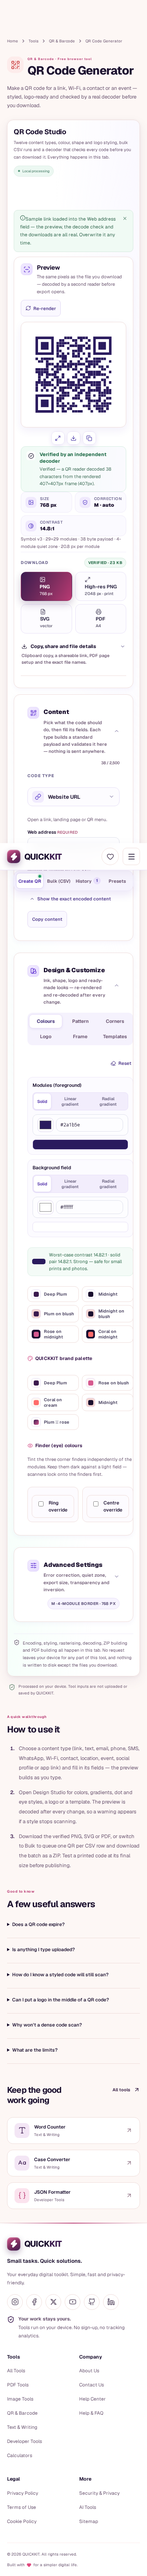
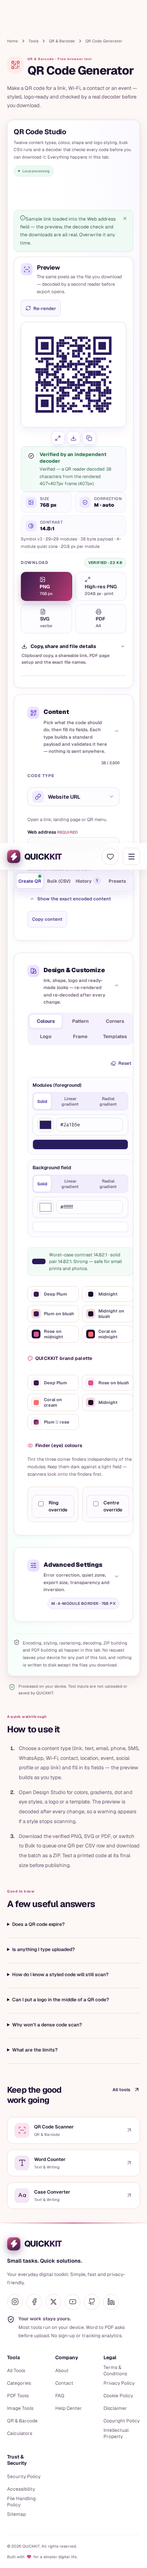
Re-verify after merging main for PR #24: unit 1555/85, QR E2E 66/66, build clean
Merged origin/main (QR Scanner + OCR + calculators); the only conflict was the
tool table in TOOL_DEVELOPMENT_STATUS.md, resolved in favour of main's superset
(includes the qr-code-scanner row). Re-ran the QR Chromium E2E on the merged
production build: 66 passed / 0 failed / 0 flaky; screenshots and
e2e-results.json regenerated. Combined unit suite 1555/85; tsc + build clean.

diff --git a/docs/qr-studio-v3/QA_REPORT.md b/docs/qr-studio-v3/QA_REPORT.md
@@ -304,21 +304,26 @@ six folds (Colours / Pattern / Corners / Logo / **Frame** / Templates).
 
 ## 11. Test & build evidence
 
-| Gate                                  | Result                                                                                                                                                      |
-| ------------------------------------- | ----------------------------------------------------------------------------------------------------------------------------------------------------------- |
-| TypeScript (`tsc --noEmit`)           | clean                                                                                                                                                       |
-| ESLint (changed files + `tests/e2e`)  | clean                                                                                                                                                       |
-| Prettier (changed files)              | formatted                                                                                                                                                   |
-| Unit suite                            | **754 passing / 42 files** (was 682/39 at Stage 1, 594/37 baseline; +21 D, +15 F, +8 G, +10 H, +12 E, +6 I)                                                 |
-| **Playwright Chromium E2E (Phase J)** | **66 passing / 0 failed / 0 flaky** against a production build                                                                                              |
-| Responsive screenshots                | 6 genuine captures, 5 widths, no overflow/clipping                                                                                                          |
-| Console / network / hydration         | 0 errors / 0 genuine failures / 0 hydration errors                                                                                                          |
-| Routes                                | 11/11 HTTP 200                                                                                                                                              |
-| Independent decode                    | every content type + all 55 templates + 11 category samples + 6 framed/eye/logo designs decoded by jsQR to the exact payload; DPI-stamped PNGs still decode |
-| Print layouts                         | every layout reloads as a valid PDF at its promised mm size; A4 sheet grid clamped to fit                                                                   |
-| Production build (`npm run build`)    | clean; `/tools/qr-generator` prerendered static                                                                                                             |
-| Dev preview                           | running on port 3000 (live preview)                                                                                                                         |
-| Rendered artifacts                    | 44 real PNGs + `report.json` in `docs/qr-studio-v3/evidence/`                                                                                               |
+| Gate                                  | Result                                                                                                      |
+| ------------------------------------- | ----------------------------------------------------------------------------------------------------------- |
+| TypeScript (`tsc --noEmit`)           | clean                                                                                                       |
+| ESLint (changed files + `tests/e2e`)  | clean                                                                                                       |
+| Prettier (changed files)              | formatted                                                                                                   |
+| Unit suite                            | **754 passing / 42 files** (was 682/39 at Stage 1, 594/37 baseline; +21 D, +15 F, +8 G, +10 H, +12 E, +6 I) |
+| **Playwright Chromium E2E (Phase J)** | **66 passing / 0 failed / 0 flaky** against a production build                                              |
+| Responsive screenshots                | 6 genuine captures, 5 widths, no overflow/clipping                                                          |
+| Console / network / hydration         | 0 errors / 0 genuine failures / 0 hydration errors                                                          |
+| Routes                                | 11/11 HTTP 200                                                                                              |
+
+**Post-merge re-verification (PR #24):** after merging `origin/main` into the branch (single
+`TOOL_DEVELOPMENT_STATUS.md` conflict resolved in favour of main's tool table), the combined unit
+suite passes **1555 / 85 files**, the QR Chromium E2E was re-run at **66 / 66 (0 flaky)** with
+screenshots and `e2e-results.json` regenerated, and `tsc` + the production build are clean.
+| Independent decode | every content type + all 55 templates + 11 category samples + 6 framed/eye/logo designs decoded by jsQR to the exact payload; DPI-stamped PNGs still decode |
+| Print layouts | every layout reloads as a valid PDF at its promised mm size; A4 sheet grid clamped to fit |
+| Production build (`npm run build`) | clean; `/tools/qr-generator` prerendered static |
+| Dev preview | running on port 3000 (live preview) |
+| Rendered artifacts | 44 real PNGs + `report.json` in `docs/qr-studio-v3/evidence/` |
 
 **CSP:** untouched. No production policy was weakened.
 

diff --git a/TOOL_DEVELOPMENT_STATUS.md b/TOOL_DEVELOPMENT_STATUS.md
@@ -1813,6 +1813,12 @@ continuing the existing QR history — no rebuild. The owner chose a **staged** 
 (66 expected / 0 unexpected / 0 flaky), plus the earlier **44 decode-verified PNG artifacts** in
 `docs/qr-studio-v3/evidence/`. Full feature-by-feature report: `docs/qr-studio-v3/QA_REPORT.md`.
 
+**Post-merge re-verification (PR #24):** `origin/main` (QR Scanner + OCR + calculator work) was merged
+into this branch to resolve the single `TOOL_DEVELOPMENT_STATUS.md` conflict (kept main's tool table
+including the `qr-code-scanner` row). On the merged tree: combined unit suite **1555 passed / 85
+files**, QR Chromium E2E re-run **66 passed / 0 failed / 0 flaky** (screenshots + `e2e-results.json`
+regenerated), `tsc` clean, production build clean. No regressions from the merge.
+
 **Honest limitations:** Smart Link remains static only (no backend, no dynamic editing/analytics
 claimed). The calendar-event sample embeds a fresh `DTSTAMP`/`UID` per run, so its evidence PNG is
 regenerated each time (still decoded). Firefox/WebKit E2E projects were not run (only Chromium was
@@ -1890,7 +1896,6 @@ contract. Three checks in this workstream therefore touched files outside the QR
 **Owner gate.** Not merged, not deployed, not indexed. The owner must open the live preview, use
 every feature, inspect the responsive layouts and approve the design before anything else happens.
 
-
 ## 4 November 2026 — Word to PDF Converter (owner-directed)
 
 **State: implementation for review / gated — not production-ready, live-approved, merged or deployed.** Earlier tool approval notes remain historical and unchanged.
@@ -1903,7 +1908,6 @@ every feature, inspect the responsive layouts and approve the design before anyt
 - Minimal shared copy changes were necessary to remove site-wide “all inputs stay local” claims after introducing the explicit server-processing exception. Catalog/sitemap count assertions updated for exactly one added tool; no existing conversion logic changed.
 - Evidence: `docs/WORD_TO_PDF_AUDIT.md`, `docs/WORD_TO_PDF_OPERATIONS.md`, `docs/WORD_TO_PDF_QA.md`, screenshots under `docs/word-to-pdf/screenshots/`.
 - Release blockers: native rendering corpus (including charts and long documents), container/network/resource isolation verification, actual-host cancellation/crash retention tests, Firefox/WebKit and owner review. Do not mark production-ready based on mocked tests.
-
 
 ## 4 November 2026 — Word to PDF Converter V2 (same route, owner-directed upgrade)
 
@@ -1918,7 +1922,6 @@ every feature, inspect the responsive layouts and approve the design before anyt
 - Source queue remains 80 MiB; native + edited PDF retention is bounded to 120 MiB combined. Canvas area/edge bounds, serialized transforms/thumbnails, cancellation and resource cleanup are implemented; no peak-RSS guarantee.
 - Evidence: `docs/WORD_TO_PDF_V2_AUDIT.md`, `docs/WORD_TO_PDF_V2_QA.md`, `docs/WORD_TO_PDF_V2_OPERATIONS.md`, screenshots in `docs/word-to-pdf/v2/`. Existing operator container/network/quota and privacy release gates still apply.
 
-
 ## Word to PDF V3 — owner-directed visual editor upgrade (4 November 2026)
 
 **Implemented for owner review — NOT native/production-approved.** Continues V2 on `/tools/word-to-pdf`; does not create a separate tool. Existing uncommitted V2 work was preserved first in checkpoint `1807951`; V3 implementation checkpoints `3abf9e1`, `e1a86e8`, `c10e848`, `ec1e3aa` preserve the audited plan/model, integrated studio and resource/export hardening. All work stays on `arena/15621ae8-quickkit`; no reset, branch switch, push, merge or deployment.
@@ -1931,7 +1934,6 @@ every feature, inspect the responsive layouts and approve the design before anyt
 - Native engine still absent/disabled. Native Word fonts, tables/charts/images, headers/footer/page breaks and real 100-page peak memory/cancellation/fidelity remain release gates, as do physical devices/cross-browser/manual assistive-technology QA. Comparison warnings are honest review indicators, not automatic substitution/layout-difference detection.
 
 Delivery: `docs/WORD_TO_PDF_V3_QA.md`, `WORD_TO_PDF_V3_EDITOR_REPORT.md`, `WORD_TO_PDF_V3_ENGINE_STATUS.md`, `WORD_TO_PDF_V3_CHANGED_FILES.md`; screenshots, clearly labelled actual edited PDF demonstration and measured/blocked stress reports in `docs/word-to-pdf/v3/`. The original V1/V2 reports remain historical. No other tool approval state is changed.
-
 
 ## Word to PDF V4 — 4 November 2026, owner-directed continuation
 
